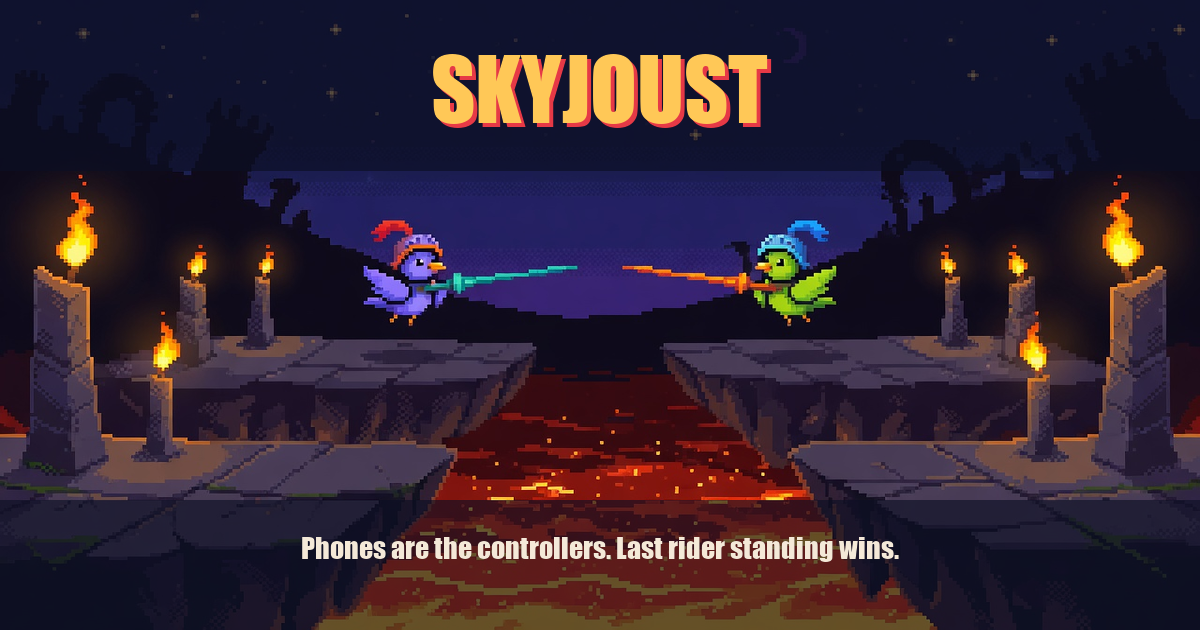
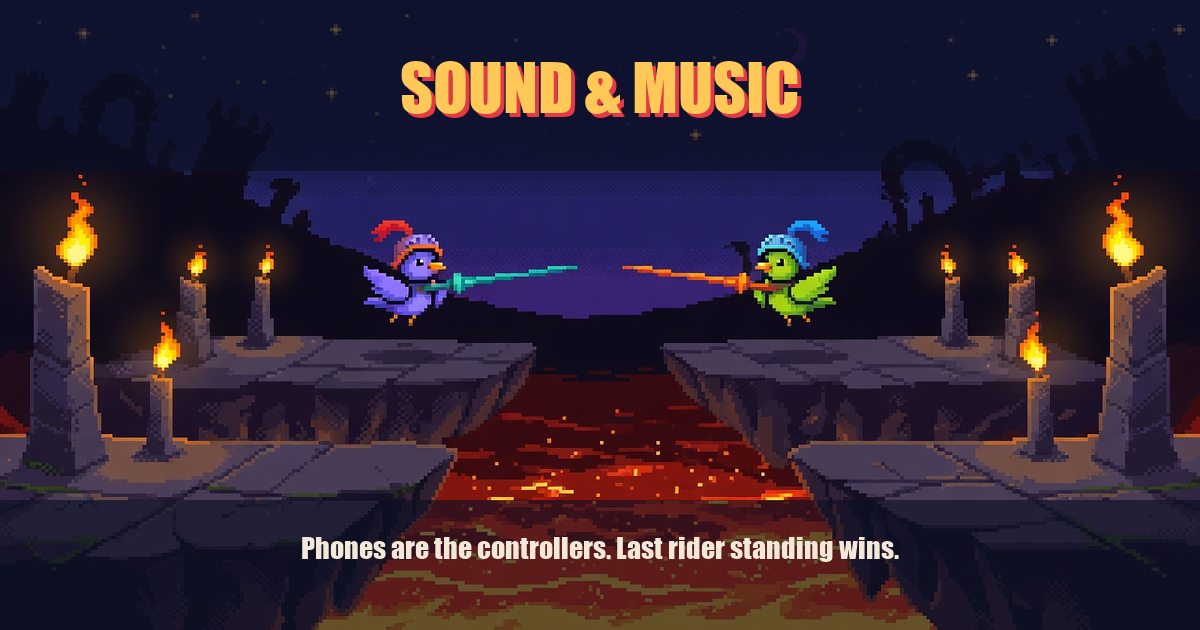
fix: rename the game to Sound and Music
Replace SkyJoust on the landing, host, controller, README, presentation, share image, and tests.

Changed region(s): [[0.3083, 0.0905, 0.6783, 0.2111]]

diff --git a/public/index.html b/public/index.html
@@ -3,26 +3,26 @@
 <head>
 <meta charset="UTF-8">
 <meta name="viewport" content="width=device-width, initial-scale=1.0">
-<title>SkyJoust — Party Game</title>
-<meta name="description" content="A party joust: one laptop is the arena, everyone's phone is a controller. Flap on the beat. Last rider standing wins.">
+<title>Sound and Music — Party Game</title>
+<meta name="description" content="Sound and Music: one laptop is the arena, everyone's phone is a controller. Flap on the beat. Last rider standing wins.">
 <meta name="theme-color" content="#0B0E23">
 <meta name="apple-mobile-web-app-capable" content="yes">
 <meta name="apple-mobile-web-app-status-bar-style" content="black-translucent">
-<meta name="apple-mobile-web-app-title" content="SkyJoust">
+<meta name="apple-mobile-web-app-title" content="Sound and Music">
 <link rel="icon" href="/favicon.ico" sizes="any">
 <link rel="icon" type="image/png" sizes="32x32" href="/favicon-32.png">
 <link rel="apple-touch-icon" href="/apple-touch-icon.png">
 <link rel="manifest" href="/site.webmanifest">
 <meta property="og:type" content="website">
-<meta property="og:site_name" content="SkyJoust">
-<meta property="og:title" content="SkyJoust — Party Game">
+<meta property="og:site_name" content="Sound and Music">
+<meta property="og:title" content="Sound and Music — Party Game">
 <meta property="og:description" content="One big screen. Everyone else's phone is a controller. Flap on the beat. Last rider standing wins.">
 <meta property="og:url" content="https://sound-and-motion.onrender.com/">
 <meta property="og:image" content="https://sound-and-motion.onrender.com/og-image.png">
 <meta property="og:image:width" content="1200">
 <meta property="og:image:height" content="630">
 <meta name="twitter:card" content="summary_large_image">
-<meta name="twitter:title" content="SkyJoust — Party Game">
+<meta name="twitter:title" content="Sound and Music — Party Game">
 <meta name="twitter:description" content="One big screen. Everyone else's phone is a controller. Last rider standing wins.">
 <meta name="twitter:image" content="https://sound-and-motion.onrender.com/og-image.png">
 <link rel="preconnect" href="https://fonts.googleapis.com">
@@ -31,7 +31,7 @@
 </head>
 <body class="landing-body">
   <main class="landing-card">
-    <div class="brand-title">SKYJOUST</div>
+    <div class="brand-title">SOUND &amp; MUSIC</div>
     <p class="brand-sub">One big screen. Everyone else’s phone is a controller.</p>
 
     <ol class="how-list">
@@ -52,7 +52,7 @@
     <p class="how-hint">Playing over a call? One person hosts and screen-shares the arena. Everyone else joins on their phone.</p>
   </main>
   <noscript>
-    <p style="color:#F4E9D8;text-align:center;padding:20px;">SkyJoust needs JavaScript to run.</p>
+    <p style="color:#F4E9D8;text-align:center;padding:20px;">Sound and Music needs JavaScript to run.</p>
   </noscript>
 </body>
 </html>

diff --git a/public/controller.html b/public/controller.html
@@ -3,12 +3,12 @@
 <head>
 <meta charset="UTF-8">
 <meta name="viewport" content="width=device-width, initial-scale=1.0, maximum-scale=1.0, user-scalable=no, viewport-fit=cover">
-<title>SkyJoust — Controller</title>
+<title>Sound and Music — Controller</title>
 <meta name="description" content="Your phone is the joust. Enter the 4-letter room code to join.">
 <meta name="theme-color" content="#0B0E23">
 <meta name="apple-mobile-web-app-capable" content="yes">
 <meta name="apple-mobile-web-app-status-bar-style" content="black-translucent">
-<meta name="apple-mobile-web-app-title" content="SkyJoust">
+<meta name="apple-mobile-web-app-title" content="Sound and Music">
 <meta name="mobile-web-app-capable" content="yes">
 <link rel="icon" href="/favicon.ico" sizes="any">
 <link rel="icon" type="image/png" sizes="32x32" href="/favicon-32.png">
@@ -23,7 +23,7 @@
   <!-- ---------- JOIN SCREEN ---------- -->
   <section id="screen-join" class="screen active">
     <div class="join-card">
-      <div class="brand-title">SKYJOUST</div>
+      <div class="brand-title">SOUND &amp; MUSIC</div>
       <div class="brand-sub">Your phone is the joust.</div>
       <div id="join-hint" class="waiting-hint"></div>
 

diff --git a/public/host.html b/public/host.html
@@ -3,11 +3,11 @@
 <head>
 <meta charset="UTF-8">
 <meta name="viewport" content="width=device-width, initial-scale=1.0">
-<title>SkyJoust — Host Screen</title>
-<meta name="description" content="Host the SkyJoust arena. Players join with their phones.">
+<title>Sound and Music — Host Screen</title>
+<meta name="description" content="Host the Sound and Music arena. Players join with their phones.">
 <meta name="theme-color" content="#0B0E23">
 <meta name="apple-mobile-web-app-capable" content="yes">
-<meta name="apple-mobile-web-app-title" content="SkyJoust">
+<meta name="apple-mobile-web-app-title" content="Sound and Music">
 <link rel="icon" href="/favicon.ico" sizes="any">
 <link rel="icon" type="image/png" sizes="32x32" href="/favicon-32.png">
 <link rel="apple-touch-icon" href="/apple-touch-icon.png">
@@ -88,7 +88,7 @@
 <div id="stage">
 
   <div id="lobby" class="panel active">
-    <div class="brand-title">SKYJOUST</div>
+    <div class="brand-title">SOUND &amp; MUSIC</div>
     <div id="room-code" title="Click to copy the room code">----</div>
     <div id="join-instructions">Scan the QR with your phone — or open the link and type this code</div>
     <div class="join-panel">

diff --git a/test/integration-test.js b/test/integration-test.js
@@ -39,14 +39,14 @@ async function main() {
   check('controller page 200', controllerPageRes.status === 200);
   const notFoundRes = await fetch(`http://localhost:${PORT}/nope.html`);
   check('missing file 404', notFoundRes.status === 404);
-  check('missing file serves branded 404', (await notFoundRes.text()).includes('Back to SkyJoust'));
+  check('missing file serves branded 404', (await notFoundRes.text()).includes('Back to Sound and Music'));
 
   const faviconRes = await fetch(`http://localhost:${PORT}/favicon.ico`);
   check('favicon.ico 200', faviconRes.status === 200);
   const ogRes = await fetch(`http://localhost:${PORT}/og-image.png`);
   check('og-image 200', ogRes.status === 200);
   const manifestRes = await fetch(`http://localhost:${PORT}/site.webmanifest`);
-  check('web manifest 200', manifestRes.status === 200 && (await manifestRes.json()).short_name === 'SkyJoust');
+  check('web manifest 200', manifestRes.status === 200 && (await manifestRes.json()).short_name === 'Sound & Music');
 
   const cloudInfoRes = await fetch(`http://localhost:${PORT}/api/info`, {
     headers: { 'x-forwarded-host': 'sound-and-motion.onrender.com', 'x-forwarded-proto': 'https' },

diff --git a/public/controller.js b/public/controller.js
@@ -37,11 +37,11 @@
   if (roomFromUrl) {
     inputRoom.value = roomFromUrl;
     if (joinHint) joinHint.textContent = 'Room code filled from the link — just enter your name.';
-    document.title = `SkyJoust — Join ${roomFromUrl}`;
+    document.title = `Sound and Music — Join ${roomFromUrl}`;
     setTimeout(() => inputName.focus(), 50);
   }
   try {
-    const savedName = localStorage.getItem('skyjoust-name');
+    const savedName = localStorage.getItem('sound-and-music-name');
     if (savedName && !inputName.value) inputName.value = savedName;
   } catch (_) { /* private mode */ }
 
@@ -185,7 +185,7 @@
     btnJoin.disabled = true;
     myRoom = room; myName = name;
     wantsReconnect = true;
-    try { localStorage.setItem('skyjoust-name', name); } catch (_) { /* ignore */ }
+    try { localStorage.setItem('sound-and-music-name', name); } catch (_) { /* ignore */ }
 
     if (!ws || ws.readyState !== WebSocket.OPEN) {
       connect();

diff --git a/public/404.html b/public/404.html
@@ -3,7 +3,7 @@
 <head>
 <meta charset="UTF-8">
 <meta name="viewport" content="width=device-width, initial-scale=1.0">
-<title>SkyJoust — Not found</title>
+<title>Sound and Music — Not found</title>
 <meta name="theme-color" content="#0B0E23">
 <link rel="icon" href="/favicon.ico" sizes="any">
 <link rel="icon" type="image/png" sizes="32x32" href="/favicon-32.png">
@@ -16,7 +16,7 @@
   <main class="landing-card">
     <div class="brand-title">404</div>
     <p class="brand-sub">That page flew into the lava.</p>
-    <a class="btn-primary landing-btn" href="/">Back to SkyJoust</a>
+    <a class="btn-primary landing-btn" href="/">Back to Sound and Music</a>
   </main>
 </body>
 </html>

diff --git a/server.js b/server.js
@@ -1,4 +1,4 @@
-// SkyJoust Party — server.js
+// Sound and Music — server.js
 // Zero external dependencies. Serves the host/controller pages and relays
 // real-time messages between one "host" (the big screen) and many phone
 // "controllers" over WebSockets.
@@ -341,7 +341,7 @@ function getLanAddresses() {
 
 server.listen(PORT, () => {
   console.log('');
-  console.log('  SkyJoust Party server running');
+  console.log('  Sound and Music server running');
   console.log('  --------------------------------');
   console.log(`  Open this on any device:          http://localhost:${PORT}/`);
   console.log(`  Host screen (laptop/TV):          http://localhost:${PORT}/host`);

diff --git a/public/shared/style.css b/public/shared/style.css
@@ -21,11 +21,12 @@ html,body{
 }
 .brand-title{
   font-family:'Press Start 2P', monospace;
-  font-size:30px;
+  font-size:clamp(16px, 4.2vw, 26px);
   color:var(--torch-glow);
   text-shadow:3px 3px 0 var(--lava);
-  letter-spacing:2px;
+  letter-spacing:1px;
   text-align:center;
+  line-height:1.35;
 }
 .brand-sub{ font-weight:800; font-size:16px; color:var(--parch); text-align:center; margin-top:6px; }
 

diff --git a/lib/miniws.js b/lib/miniws.js
@@ -1,6 +1,6 @@
 // miniws.js — a tiny, dependency-free WebSocket server (RFC 6455 subset).
 // Supports text frames, fragmentation (basic), close/ping/pong opcodes.
-// Built so SkyJoust needs zero `npm install` to run.
+// Built so Sound and Music needs zero `npm install` to run.
 
 const crypto = require('crypto');
 const { EventEmitter } = require('events');

diff --git a/public/host.js b/public/host.js
@@ -72,7 +72,7 @@
       case 'room_created':
         roomCode = msg.room;
         roomCodeEl.textContent = roomCode;
-        document.title = `SkyJoust — ${roomCode}`;
+        document.title = `Sound and Music — ${roomCode}`;
         loadJoinInfo();
         renderLobby();
         break;

diff --git a/public/config.js b/public/config.js
@@ -1,5 +1,5 @@
 // -----------------------------------------------------------------------
-// SkyJoust – deployment config
+// Sound and Music – deployment config
 //
 // Set WS_SERVER_URL to your live server's WebSocket endpoint before
 // running `npm run deploy`, e.g.:

diff --git a/scripts/build-icons.py b/scripts/build-icons.py
@@ -66,9 +66,9 @@ def build_og(src: Path, dest: Path) -> None:
     d = ImageDraw.Draw(overlay)
     d.rectangle((0, 0, 1200, 170), fill=(11, 14, 35, 170))
     d.rectangle((0, 500, 1200, 630), fill=(11, 14, 35, 160))
-    title = pick_font(86)
+    title = pick_font(64)
     sub = pick_font(28)
-    draw_centered(d, "SKYJOUST", 36, title, GOLD, LAVA)
+    draw_centered(d, "SOUND & MUSIC", 48, title, GOLD, LAVA)
     draw_centered(d, "Phones are the controllers. Last rider standing wins.", 530, sub, PARCH)
     composed = Image.alpha_composite(base, overlay).convert("RGB")
     composed.save(dest, "PNG", quality=95)
